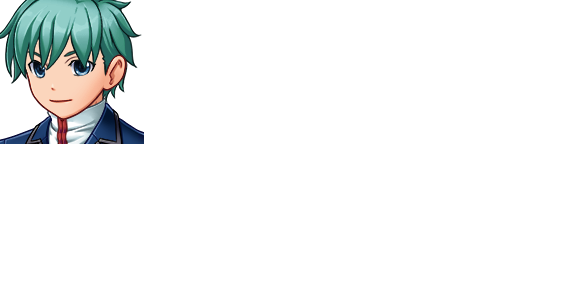
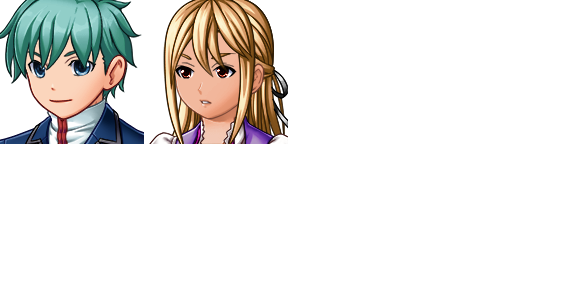
CharacterSelection FEATURE + 2 Characters Loaded

Changed region(s): [[0.25, 0.0, 0.5, 0.5]]

diff --git a/core/src/com/mygdx/ipop_game/IPOP.java b/core/src/com/mygdx/ipop_game/IPOP.java
@@ -82,6 +82,12 @@ public class IPOP extends Game {
     public static void loadResources() {
 
         Player.sprite = new Texture(Gdx.files.internal("IPOP-Walking.png"));
+        Player.player_down = new ArrayList<>();
+        Player.player_up = new ArrayList<>();
+        Player.player_left = new ArrayList<>();
+        Player.player_right = new ArrayList<>();
+        Player.player_show_room = new ArrayList<>();
+
 
         TextureRegion[] player_front = new TextureRegion[4];
         TextureRegion[] player_left = new TextureRegion[4];
@@ -109,11 +115,85 @@ public class IPOP extends Game {
         player_down[2] = new TextureRegion(Player.sprite, 104, 146, 33, 46);
         player_down[3] = new TextureRegion(Player.sprite, 55, 145, 33, 47);
 
-        Player.player_down = new Animation<>(0.25f, player_front);
-        Player.player_up = new Animation<>(0.25f, player_down);
-        Player.player_left = new Animation<>(0.25f, player_left);
-        Player.player_right = new Animation<>(0.25f, player_right);
+        player_show_room[0] = player_front[0];
+        player_show_room[1] = player_front[1];
+        player_show_room[2] = player_front[2];
+        player_show_room[3] = player_front[3];
 
+        player_show_room[4] = player_right[0];
+        player_show_room[5] = player_right[1];
+        player_show_room[6] = player_right[2];
+        player_show_room[7] = player_right[3];
+
+        player_show_room[8] = player_left[0];
+        player_show_room[9] = player_left[1];
+        player_show_room[10] = player_left[2];
+        player_show_room[11] = player_left[3];
+
+        player_show_room[12] = player_down[0];
+        player_show_room[13] = player_down[1];
+        player_show_room[14] = player_down[2];
+        player_show_room[15] = player_down[3];
+
+
+        Player.player_down.add(new Animation<>(0.25f, player_front));
+        Player.player_up.add(new Animation<>(0.25f, player_down));
+        Player.player_left.add(new Animation<>(0.25f, player_left));
+        Player.player_right.add(new Animation<>(0.25f, player_right));
+        Player.player_show_room.add(new Animation<>(0.25f, player_show_room));
+
+
+        player_front = new TextureRegion[4];
+        player_left = new TextureRegion[4];
+        player_right = new TextureRegion[4];
+        player_down = new TextureRegion[4];
+        player_show_room = new TextureRegion[16];
+
+        player_front[0] = new TextureRegion(Player.sprite, 149, 3, 35, 45);
+        player_front[1] = new TextureRegion(Player.sprite, 198, 2, 35, 46);
+        player_front[2] = new TextureRegion(Player.sprite, 247, 3, 35, 44);
+        player_front[3] = new TextureRegion(Player.sprite, 198, 2, 35, 46);
+
+        player_left[0] = new TextureRegion(Player.sprite, 152, 52, 37, 44);
+        player_left[1] = new TextureRegion(Player.sprite, 200, 51, 36, 45);
+        player_left[2] = new TextureRegion(Player.sprite, 248, 52, 35, 44);
+        player_left[3] = new TextureRegion(Player.sprite, 200, 51, 36, 45);
+
+        player_right[0] = new TextureRegion(Player.sprite, 146, 100, 37, 44);
+        player_right[1] = new TextureRegion(Player.sprite, 195, 99, 34, 45);
+        player_right[2] = new TextureRegion(Player.sprite, 244, 100, 35, 44);
+        player_right[3] = new TextureRegion(Player.sprite, 195, 99, 34, 45);
+
+        player_down[0] = new TextureRegion(Player.sprite, 150, 147, 35, 45);
+        player_down[1] = new TextureRegion(Player.sprite, 198, 146, 35, 46);
+        player_down[2] = new TextureRegion(Player.sprite, 246, 147, 35, 45);
+        player_down[3] = new TextureRegion(Player.sprite, 198, 146, 35, 46);
+
+        player_show_room[0] = player_front[0];
+        player_show_room[1] = player_front[1];
+        player_show_room[2] = player_front[2];
+        player_show_room[3] = player_front[3];
+
+        player_show_room[4] = player_right[0];
+        player_show_room[5] = player_right[1];
+        player_show_room[6] = player_right[2];
+        player_show_room[7] = player_right[3];
+
+        player_show_room[8] = player_left[0];
+        player_show_room[9] = player_left[1];
+        player_show_room[10] = player_left[2];
+        player_show_room[11] = player_left[3];
+
+        player_show_room[12] = player_down[0];
+        player_show_room[13] = player_down[1];
+        player_show_room[14] = player_down[2];
+        player_show_room[15] = player_down[3];
+
+        Player.player_down.add(new Animation<>(0.25f, player_front));
+        Player.player_up.add(new Animation<>(0.25f, player_down));
+        Player.player_left.add(new Animation<>(0.25f, player_left));
+        Player.player_right.add(new Animation<>(0.25f, player_right));
+        Player.player_show_room.add(new Animation<>(0.25f, player_show_room));
 
         informatica = new ArrayList<>();
         informatica.add("Sistemes microinformatics i xarxes");

diff --git a/core/src/com/mygdx/ipop_game/ui/CharacterSelectionScreen.java b/core/src/com/mygdx/ipop_game/ui/CharacterSelectionScreen.java
@@ -1,0 +1,94 @@
+package com.mygdx.ipop_game.ui;
+
+import com.badlogic.gdx.Gdx;
+import com.badlogic.gdx.Screen;
+import com.badlogic.gdx.graphics.GL20;
+import com.badlogic.gdx.graphics.Texture;
+import com.badlogic.gdx.graphics.g2d.TextureRegion;
+import com.badlogic.gdx.math.Rectangle;
+import com.mygdx.ipop_game.IPOP;
+import com.mygdx.ipop_game.models.Player;
+
+public class CharacterSelectionScreen implements Screen {
+
+    private Texture background, itemBackground, goBack, goNext;
+
+    private Rectangle goBackBtn, goNextBtn;
+    final IPOP game;
+    public float stateTime = 0f;
+
+    public CharacterSelectionScreen(IPOP game) {
+        this.game = game;
+
+        background = new Texture(Gdx.files.internal("Mansion.png"));
+        itemBackground = new Texture(Gdx.files.internal("panel-background.png"));
+
+        goBack = new Texture(Gdx.files.internal("back-button.png"));
+        goBackBtn = new Rectangle(200 , 400, 100, 100);
+
+        goNext = new Texture(Gdx.files.internal("next-button.png"));
+        goNextBtn = new Rectangle(2000 , 400, 100, 100);
+
+    }
+
+    @Override
+    public void show() {  }
+
+
+
+    @Override
+    public void render(float delta) {
+        Gdx.gl.glClearColor(0, 0, 0, 1);
+        Gdx.gl.glClear(GL20.GL_COLOR_BUFFER_BIT);
+        game.batch.begin();
+        stateTime += Gdx.graphics.getDeltaTime();
+        System.out.println(Player.player_show_room.get(Player.player_character));
+        TextureRegion frame = Player.player_show_room.get(Player.player_character).getKeyFrame(stateTime, true);
+        game.batch.draw(background, 0, 0, 2400, 1080);
+        game.batch.draw(itemBackground, 400, 100, 1500, 650);
+        game.font.getData().setScale(3.0f);
+        game.batch.draw(
+                frame,
+                Player.transform[0], Player.transform[1],
+                0, 0,
+                frame.getRegionWidth(), frame.getRegionHeight(),
+                6, 6,
+                0
+        );
+        game.batch.draw(goBack, 200, 400, 100, 100);
+        game.batch.draw(goNext, 2000, 400, 100, 100);
+
+
+        if (Gdx.input.justTouched()) {
+            float touchX = Gdx.input.getX();
+            float touchY = Gdx.graphics.getHeight() - Gdx.input.getY();
+            if (goNextBtn.contains(touchX, touchY)) {
+                if (Player.player_character == Player.player_show_room.size() - 1) {
+                    Player.player_character = 0;
+                } else { Player.player_character++;}
+                System.out.println(Player.player_character);
+            } else if (goBackBtn.contains(touchX, touchY)) {
+                if (Player.player_character == 0) {
+                    Player.player_character = Player.player_show_room.size() - 1;
+                } else { Player.player_character--;}
+                System.out.println(Player.player_character);
+            }
+        }
+        game.batch.end();
+    }
+
+    @Override
+    public void resize(int width, int height) {  }
+
+    @Override
+    public void pause() {  }
+
+    @Override
+    public void resume() {  }
+
+    @Override
+    public void hide() {  }
+
+    @Override
+    public void dispose() {  }
+}

diff --git a/core/src/com/mygdx/ipop_game/models/Player.java b/core/src/com/mygdx/ipop_game/models/Player.java
@@ -4,15 +4,17 @@ import com.badlogic.gdx.graphics.Texture;
 import com.badlogic.gdx.graphics.g2d.Animation;
 import com.badlogic.gdx.graphics.g2d.TextureRegion;
 
-public class Player {
+import java.util.ArrayList;
 
+public class Player {
     public static String player_alias= "";
     public static String player_ocupation= "";
     public static int player_character = 0;
 
     public static int[] scale = {3, 3};
-    public static int[] transform = {100, 100};
+    public static int[] transform = {1050, 350};
     public static int speed = 2;
     public static Texture sprite;
-    public static Animation<TextureRegion> player_left, player_right, player_up, player_down;
+
+    public static ArrayList<Animation<TextureRegion>> player_show_room, player_left, player_right, player_up, player_down;
 }

diff --git a/core/src/com/mygdx/ipop_game/ui/MainMenuScreen.java b/core/src/com/mygdx/ipop_game/ui/MainMenuScreen.java
@@ -75,6 +75,8 @@ public class MainMenuScreen implements Screen, TextInputListener {
                 }, "Select name", "", "Username");
             } else if (selectCicleBtn.contains(touchX, touchY)) {
                 game.setScreen(new CicleSelectionScreen(game));
+            } else if (selectCharacterBtn.contains(touchX, touchY)) {
+                game.setScreen(new CharacterSelectionScreen(game));
             }
         }
         game.batch.end();
